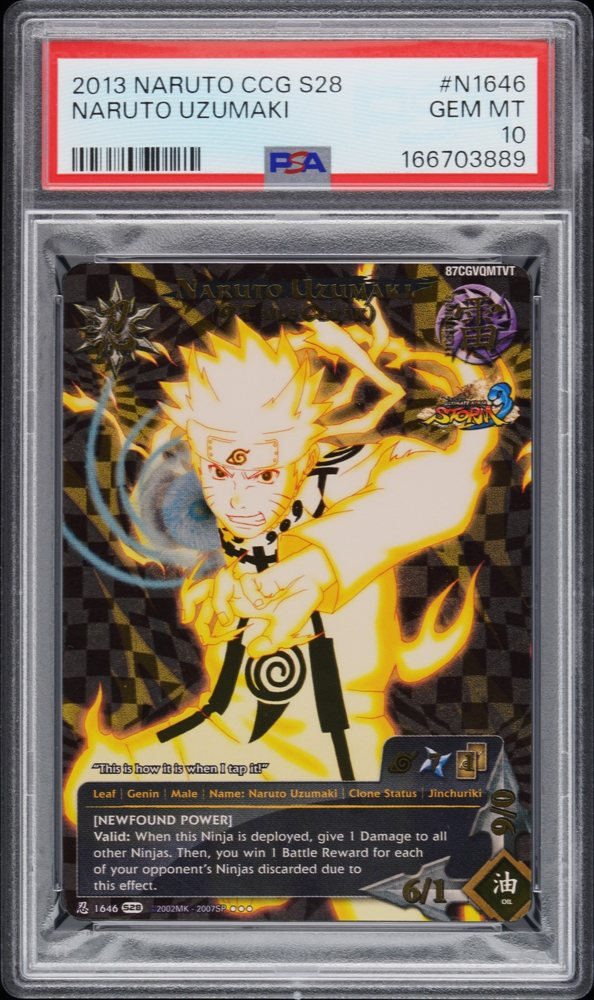
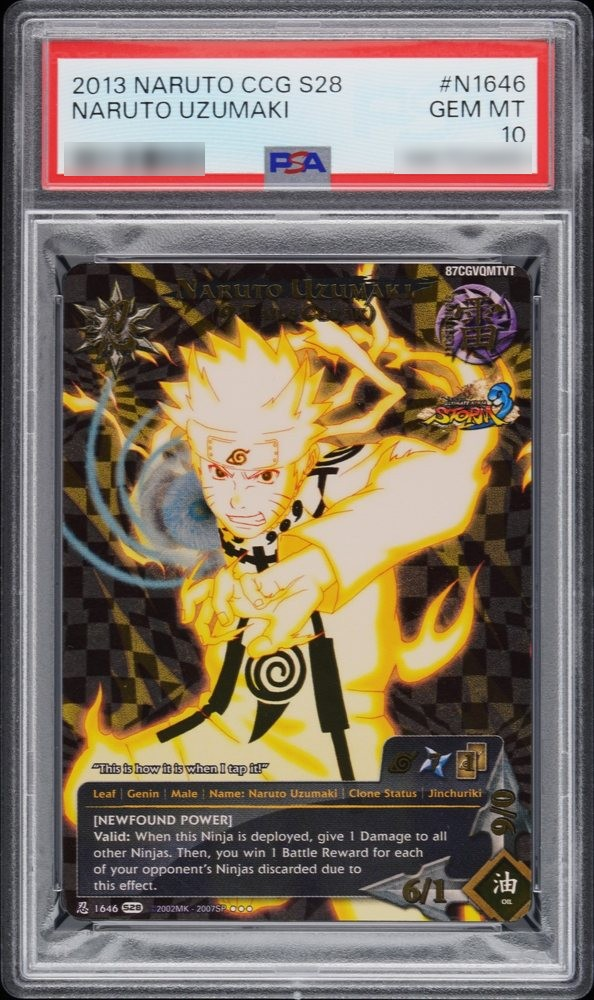
Biggest sales article: top 10 checked sales with sold-slab photos
- Rewrite the hidden biggest-naruto-ccg-sales draft with the current top 10 (one spot per card)
- {{sale}} blocks show the photo of the copy that sold (img/sales) when one exists, else the card scan
- Crop and straighten slab photos for sales 276, 160, 135, 172, 173; add Sai (160)
- Blur cert numbers and barcodes on the 11 slab photos

Claude-Session: https://claude.ai/code/session_01PMqRcCpCoHe9iKCuaWxYk1

Changed region(s): [[0.0909, 0.124, 0.3636, 0.186], [0.6667, 0.124, 0.9091, 0.186]]

diff --git a/pipeline/articles_build.py b/pipeline/articles_build.py
@@ -108,10 +108,26 @@ def sale_link(url, src):
             f'See it on {B.e(where)} ↗</a>')
 
 
+def sale_slab(sid):
+    """Site path of the saved listing photo (the sold slab) for sale id sid, or '' (see export_cards.sale_photo)."""
+    d = os.path.join(B.ROOT, 'img', 'sales')
+    if not sid or not os.path.isdir(d):
+        return ''
+    for f in sorted(os.listdir(d)):
+        if f == f'{sid}.jpg' or f.endswith(f'-{sid}.jpg'):
+            return f'/img/sales/{f}'
+    return ''
+
+
 def card_block(c, s, sale=None):
     e = B.e
-    img = (f'<img loading="lazy" src="{e(c["img"])}" alt="{e(c["name"])} {e(c["n"])} Naruto CCG card" width="750" height="1050">'
-           if re.match(r'^https://', c.get('img') or '') else f'<span class="noimg sm"><b>{e(c["n"])}</b></span>')
+    slab = sale_slab(sale.get('id')) if sale else ''
+    if slab:   # a {{sale}} block shows the actual copy that sold, when we have its photo
+        img = (f'<img class="slab" loading="lazy" src="{e(slab)}" alt="{e(c["name"])} {e(c["n"])} {e(sale["v"])} '
+               f'Naruto card, the copy that sold for {e(B.money(sale["p"]))}" width="600" height="1000">')
+    else:
+        img = (f'<img loading="lazy" src="{e(c["img"])}" alt="{e(c["name"])} {e(c["n"])} Naruto CCG card" width="750" height="1050">'
+               if re.match(r'^https://', c.get('img') or '') else f'<span class="noimg sm"><b>{e(c["n"])}</b></span>')
     top = c.get('top') or []
     if sale:
         label, price, ver, day, url, src = 'Sold for', sale['p'], sale['v'], sale['d'], sale['url'], sale['src']
@@ -141,7 +157,7 @@ def article_body(a, cards_by_key, sets_by_id):
                 x = SALES.get(k.strip())
                 if x and x['c'] in cards_by_key:
                     c = cards_by_key[x['c']]
-                    out.append(card_block(c, sets_by_id[c['s']], x))
+                    out.append(card_block(c, sets_by_id[c['s']], dict(x, id=k.strip())))
         elif m:
             cs = [cards_by_key[k.strip()] for k in m.group(2).split(',') if k.strip() in cards_by_key]
             if m.group(1) == 'card':

diff --git a/pipeline/articles/biggest-naruto-ccg-sales.md b/pipeline/articles/biggest-naruto-ccg-sales.md
@@ -1,42 +1,85 @@
 ---
-title: The 5 biggest Naruto CCG sales we've tracked
-description: The top Bandai Naruto CCG sales in the Jonin database, led by a PSA 10 Sasuke promo near $5,000.
-date: 2026-11-25
-cover: P:PR088
+title: The 10 biggest Naruto CCG sales we've tracked
+description: The highest Bandai Naruto CCG sales checked on Jonin, led by a $30,000 1st Edition Pain & Itachi PSA 10.
+date: 2026-11-26
+cover: 20:N-1096
 draft: true
 ---
-Every sale on Jonin is checked by hand before it counts. These are the five highest so far.
+The original Bandai Naruto CCG (2006 to 2013) is having its biggest run since the game ended. Jonin has checked 334 sales by hand so far. Sixteen of them went for $10,000 or more, spread across seven different cards, and every one of those happened since late August 2026.
 
-## 1. Sasuke Uchiha PR088
+Below are the 10 biggest sales in the Jonin database, one spot per card, so a card can't take two places. Each one links to the sale itself.
 
-A Shonen Jump promo from 2013, the last year of the game. In a PSA 10, it's the top sale on the site.
+## 1. Pain (Deva Path) & Itachi Uchiha: $30,000
 
-{{card P:PR088}}
+The top sale we've checked is a 1st Edition Super Rare from Tales of the Gallant Sage, the game's 20th set. This card has sold three times in a PSA 10 since August, climbing from $13,500 (Unlimited) to $20,000 and then $30,000 (both 1st Edition).
 
-## 2. Sasuke Uchiha N-496
+{{sale 276}}
 
-Only an Uncommon, but a 1st Edition full foil in a PSA 10. Grade and foil matter more than rarity here.
+## 2. Susano'o (Sasuke): $25,000
 
-{{card 12:N-496}}
+From Avenger's Wrath (2012). With 15 checked sales, it's the most-traded card on this list. This PSA 10 went for an accepted Best Offer of $25,000.
 
-## 3. Itachi Uchiha N-203
+{{sale 130}}
 
-The highest raw sale on the list: a 1st Edition Super Rare foil from Dream Legacy.
+## 3. Naruto Uzumaki & Sasuke Uchiha: $22,000
 
-{{card 5:N-203}}
+The Super Rare foil from The Chosen (2008), the only set with prism and spiral foils. It's the oldest card in the top three.
 
-## 4. Itachi Uchiha N-1511
+{{sale 158}}
 
-A 1st Edition full foil from Avenger's Wrath, one of the last sets.
+## 4. Sasuke Uchiha PR088: $18,000
 
-{{card 26:N-1511}}
+A 2013 Shonen Jump Championship promo from the game's final year. It's the top promo we've checked, and it sold at auction.
 
-## 5. Naruto Uzumaki PR053
+{{sale 182}}
 
-The top Naruto sale so far, raw.
+## 5. Sasuke Uchiha, Weapons of War: $14,500
 
-{{card P:PR053}}
+A 1st Edition full art Super Rare from set 22, sold at auction in a PSA 10.
+
+{{sale 184}}
+
+## 6. Naruto Uzumaki (9 Tails Cloak): $14,000
+
+From Ultimate Ninja Storm 3, the last set Bandai made. It's the top Naruto card on the list.
+
+{{sale 131}}
+
+## 7. Sai, Shattered Truths: $10,000
+
+A 1st Edition full art in a PSA 10. Sai is the only character on this list who isn't Naruto, Sasuke, Itachi or Pain.
+
+{{sale 160}}
+
+## 8. Naruto Uzumaki N-001: $9,999.99
+
+Card number one from the very first set, The Path to Hokage (2006), in diamond foil. It's the only PSA 9 on the list. Even a grade down, the first Naruto card is close to five figures.
+
+{{sale 161}}
+
+## 9. Sasuke Uchiha, Shattered Truths: $9,800
+
+Another 1st Edition full art from set 21, sold at auction.
+
+{{sale 135}}
+
+## 10 (tie). Itachi Uchiha: $9,000, twice
+
+Two different Itachi cards are tied at $9,000. One is a 1st Edition diamond foil from Eternal Rivalry in a BGS 9.5. The other is a PSA 10 promo from the Ultimate Battle tin.
+
+{{sale 172}}
+
+{{sale 173}}
+
+## What the list tells us
+
+- **Grade is everything.** Nine of the 11 sales are PSA 10s.
+- **Late sets lead.** Four spots go to 1st Edition full arts from sets 20 to 22 (Tales of the Gallant Sage, Shattered Truths and Weapons of War).
+- **Sasuke owns the top end.** Sasuke shows up four times, five if you count Susano'o.
+- **Promos matter.** Two promos made the top 10.
+
+Prices on the list are final sale prices. For Best Offer sales, we use the accepted offer, not the asking price.
 
 ## See more
 
-Top 5s by character: [Naruto](/character/naruto/most-valuable/), [Sasuke](/character/sasuke/most-valuable/), [Itachi](/character/itachi/most-valuable/).
+Top 5s by character: [Naruto](/character/naruto/most-valuable/), [Sasuke](/character/sasuke/most-valuable/), [Itachi](/character/itachi/most-valuable/). Every sale, split by edition, foil and grade, is in [Jonin Club](/club/).
